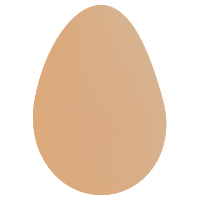
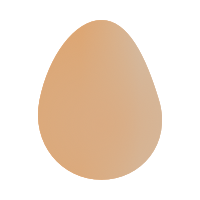
readme updated

Changed region(s): [[0.15, 0.0, 0.84, 0.99]]

diff --git a/README.md b/README.md
@@ -1,3 +1,21 @@
-# ReacTacToe
+# ReacTacToe 
+
+## Why
+Full disclosure: I hate tic tac toe. I never found the game interesting, and people seemed to want to play it again and again. One game, people! This is not riveting enough to carry me through scores of rounds. 
+
+I never understood why it was so popular for part of learning how to program and just ignored it. No way could naughts and crosses keep me interested between git init and the final push. So I was wrong. The point is that winning combo check. Now that was fun. And who said I had to stick with Xs and Os? Changed that up, too, which became its own challenge.
+
+So here I am: a girl (very old one at that) standing before you and admitting that this was so fun to make for design and algorithmofun. 
+
+## What
+Tic Tac Toe or Naughts and Crosses or Whole Egg and Splats
+A basic tic tac toe game (can there be anything but a basic version of this?) but with O-ish and X-ish images instead of X and O. 
+
+![Tic tac toe board with eggs](./src/tictactoe.png)
+## How
+* Create React App
+* Styled Components
+* Sketch
+
 
 https://blog.alexdevero.com/how-to-build-simple-tic-tac-toe-game-with-react/
